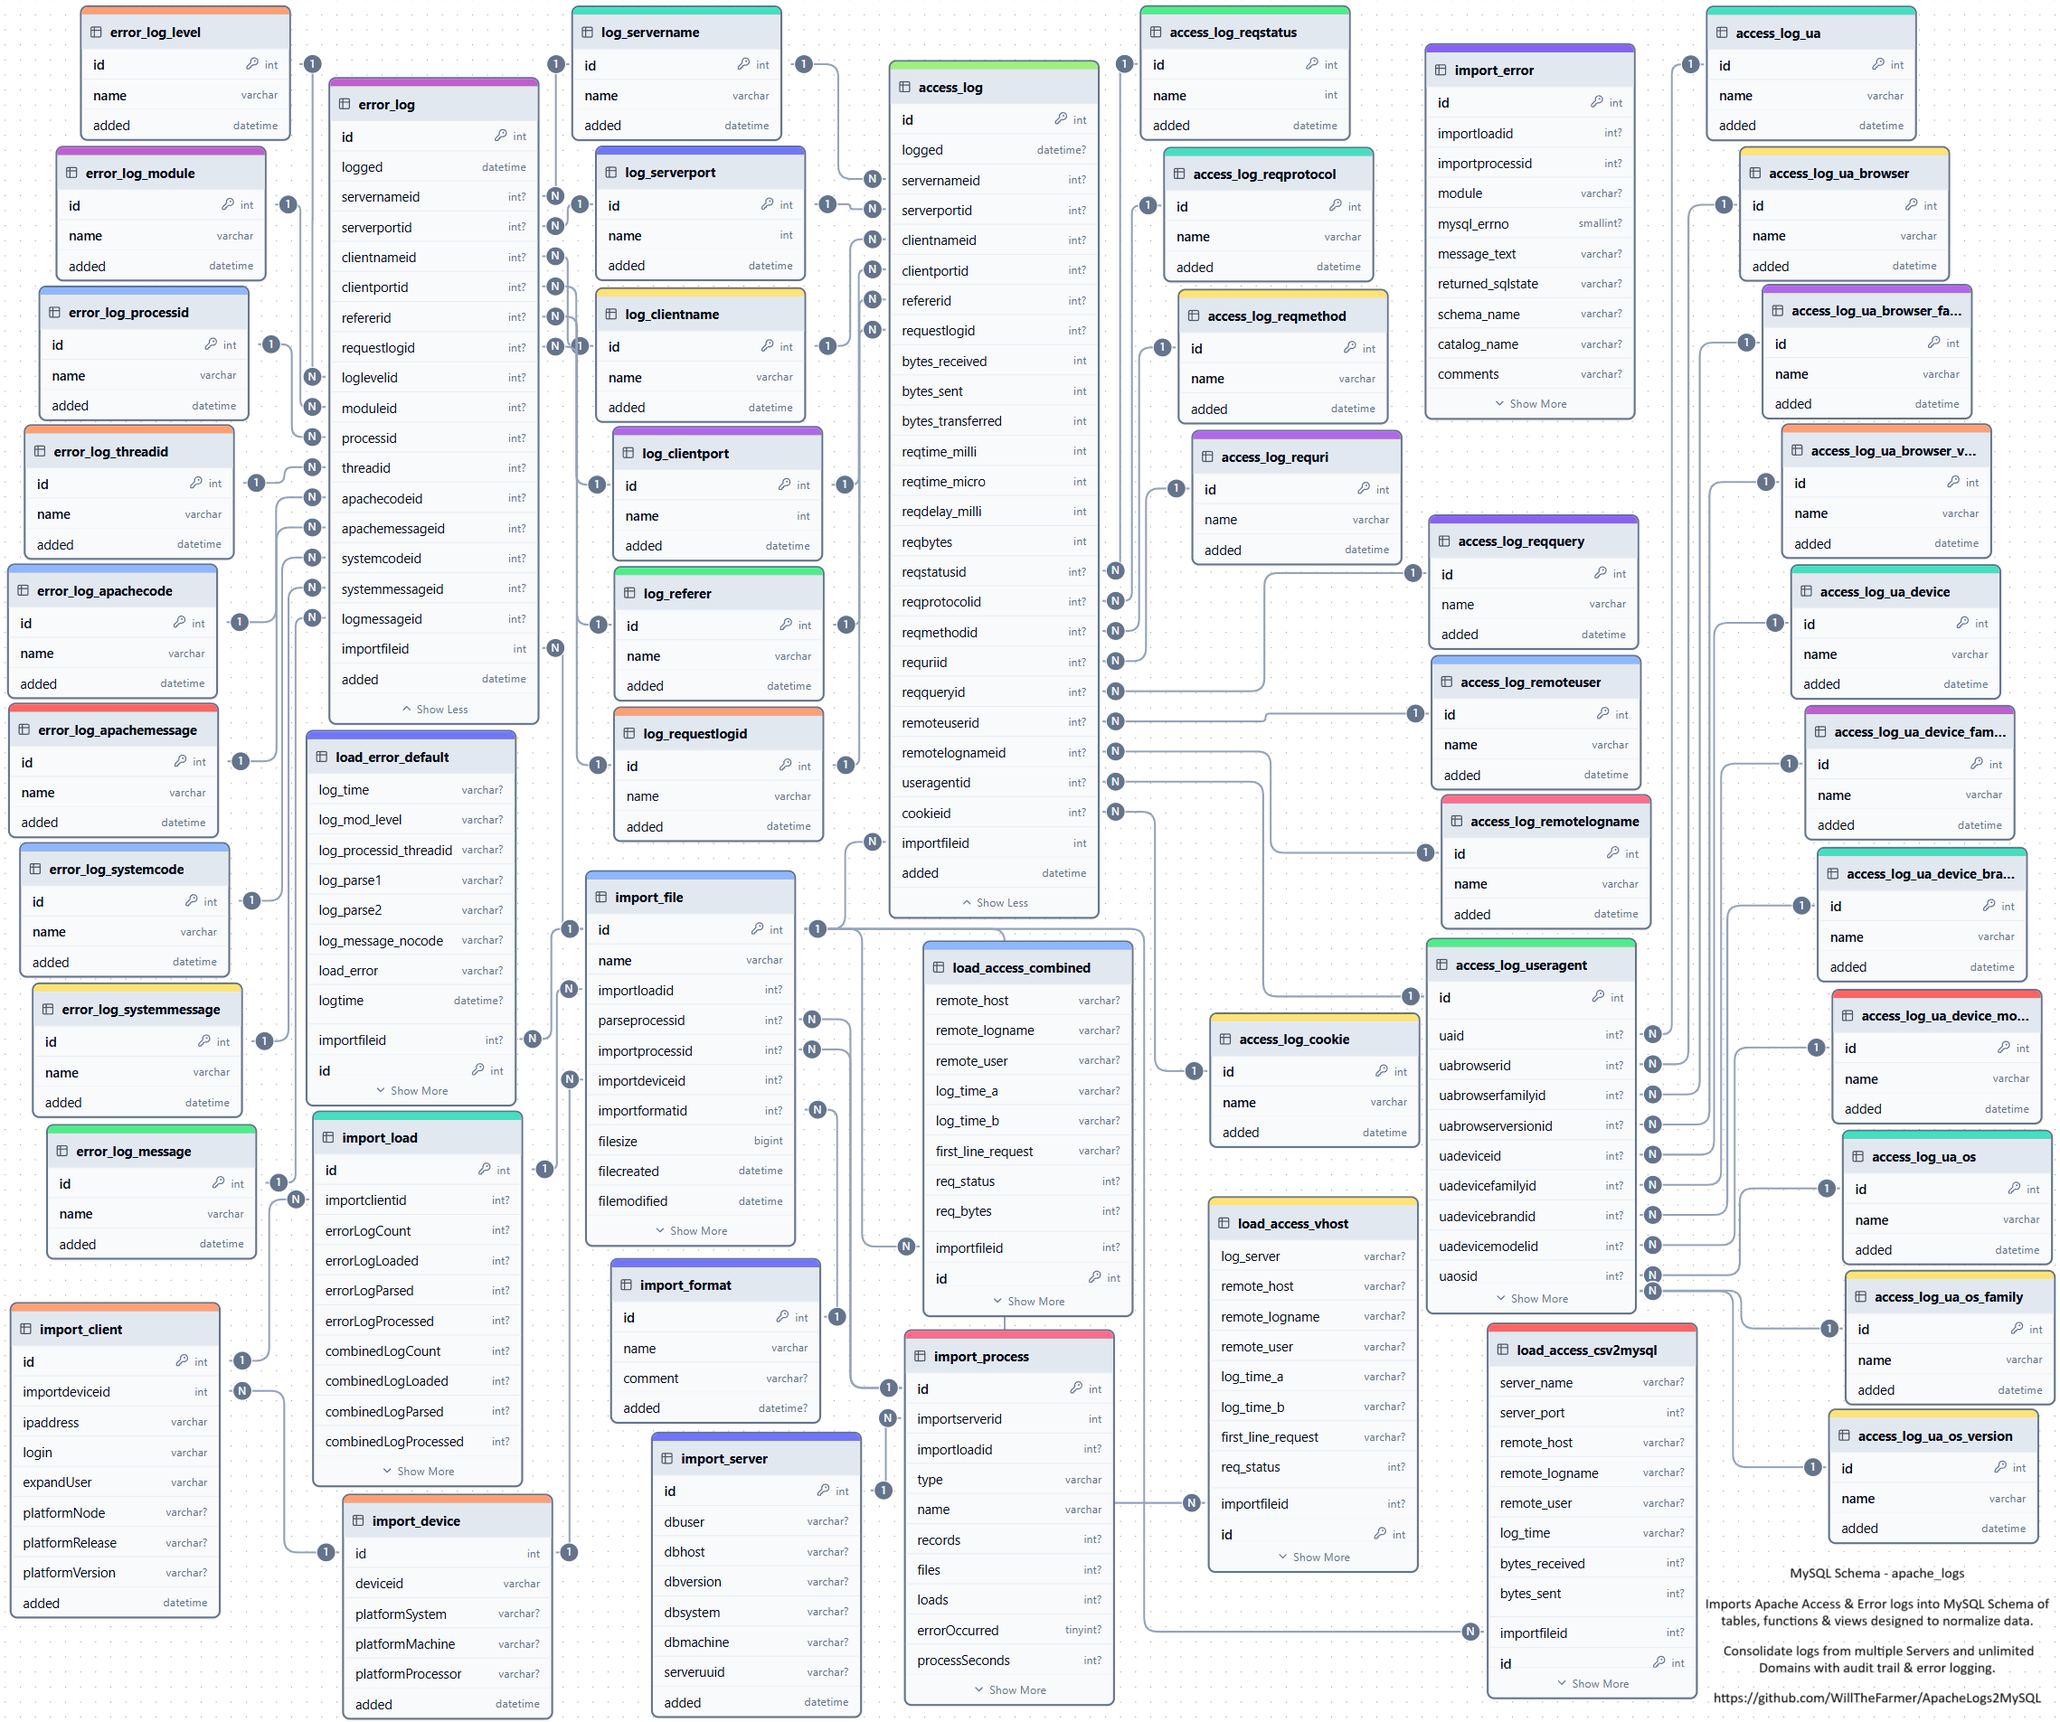
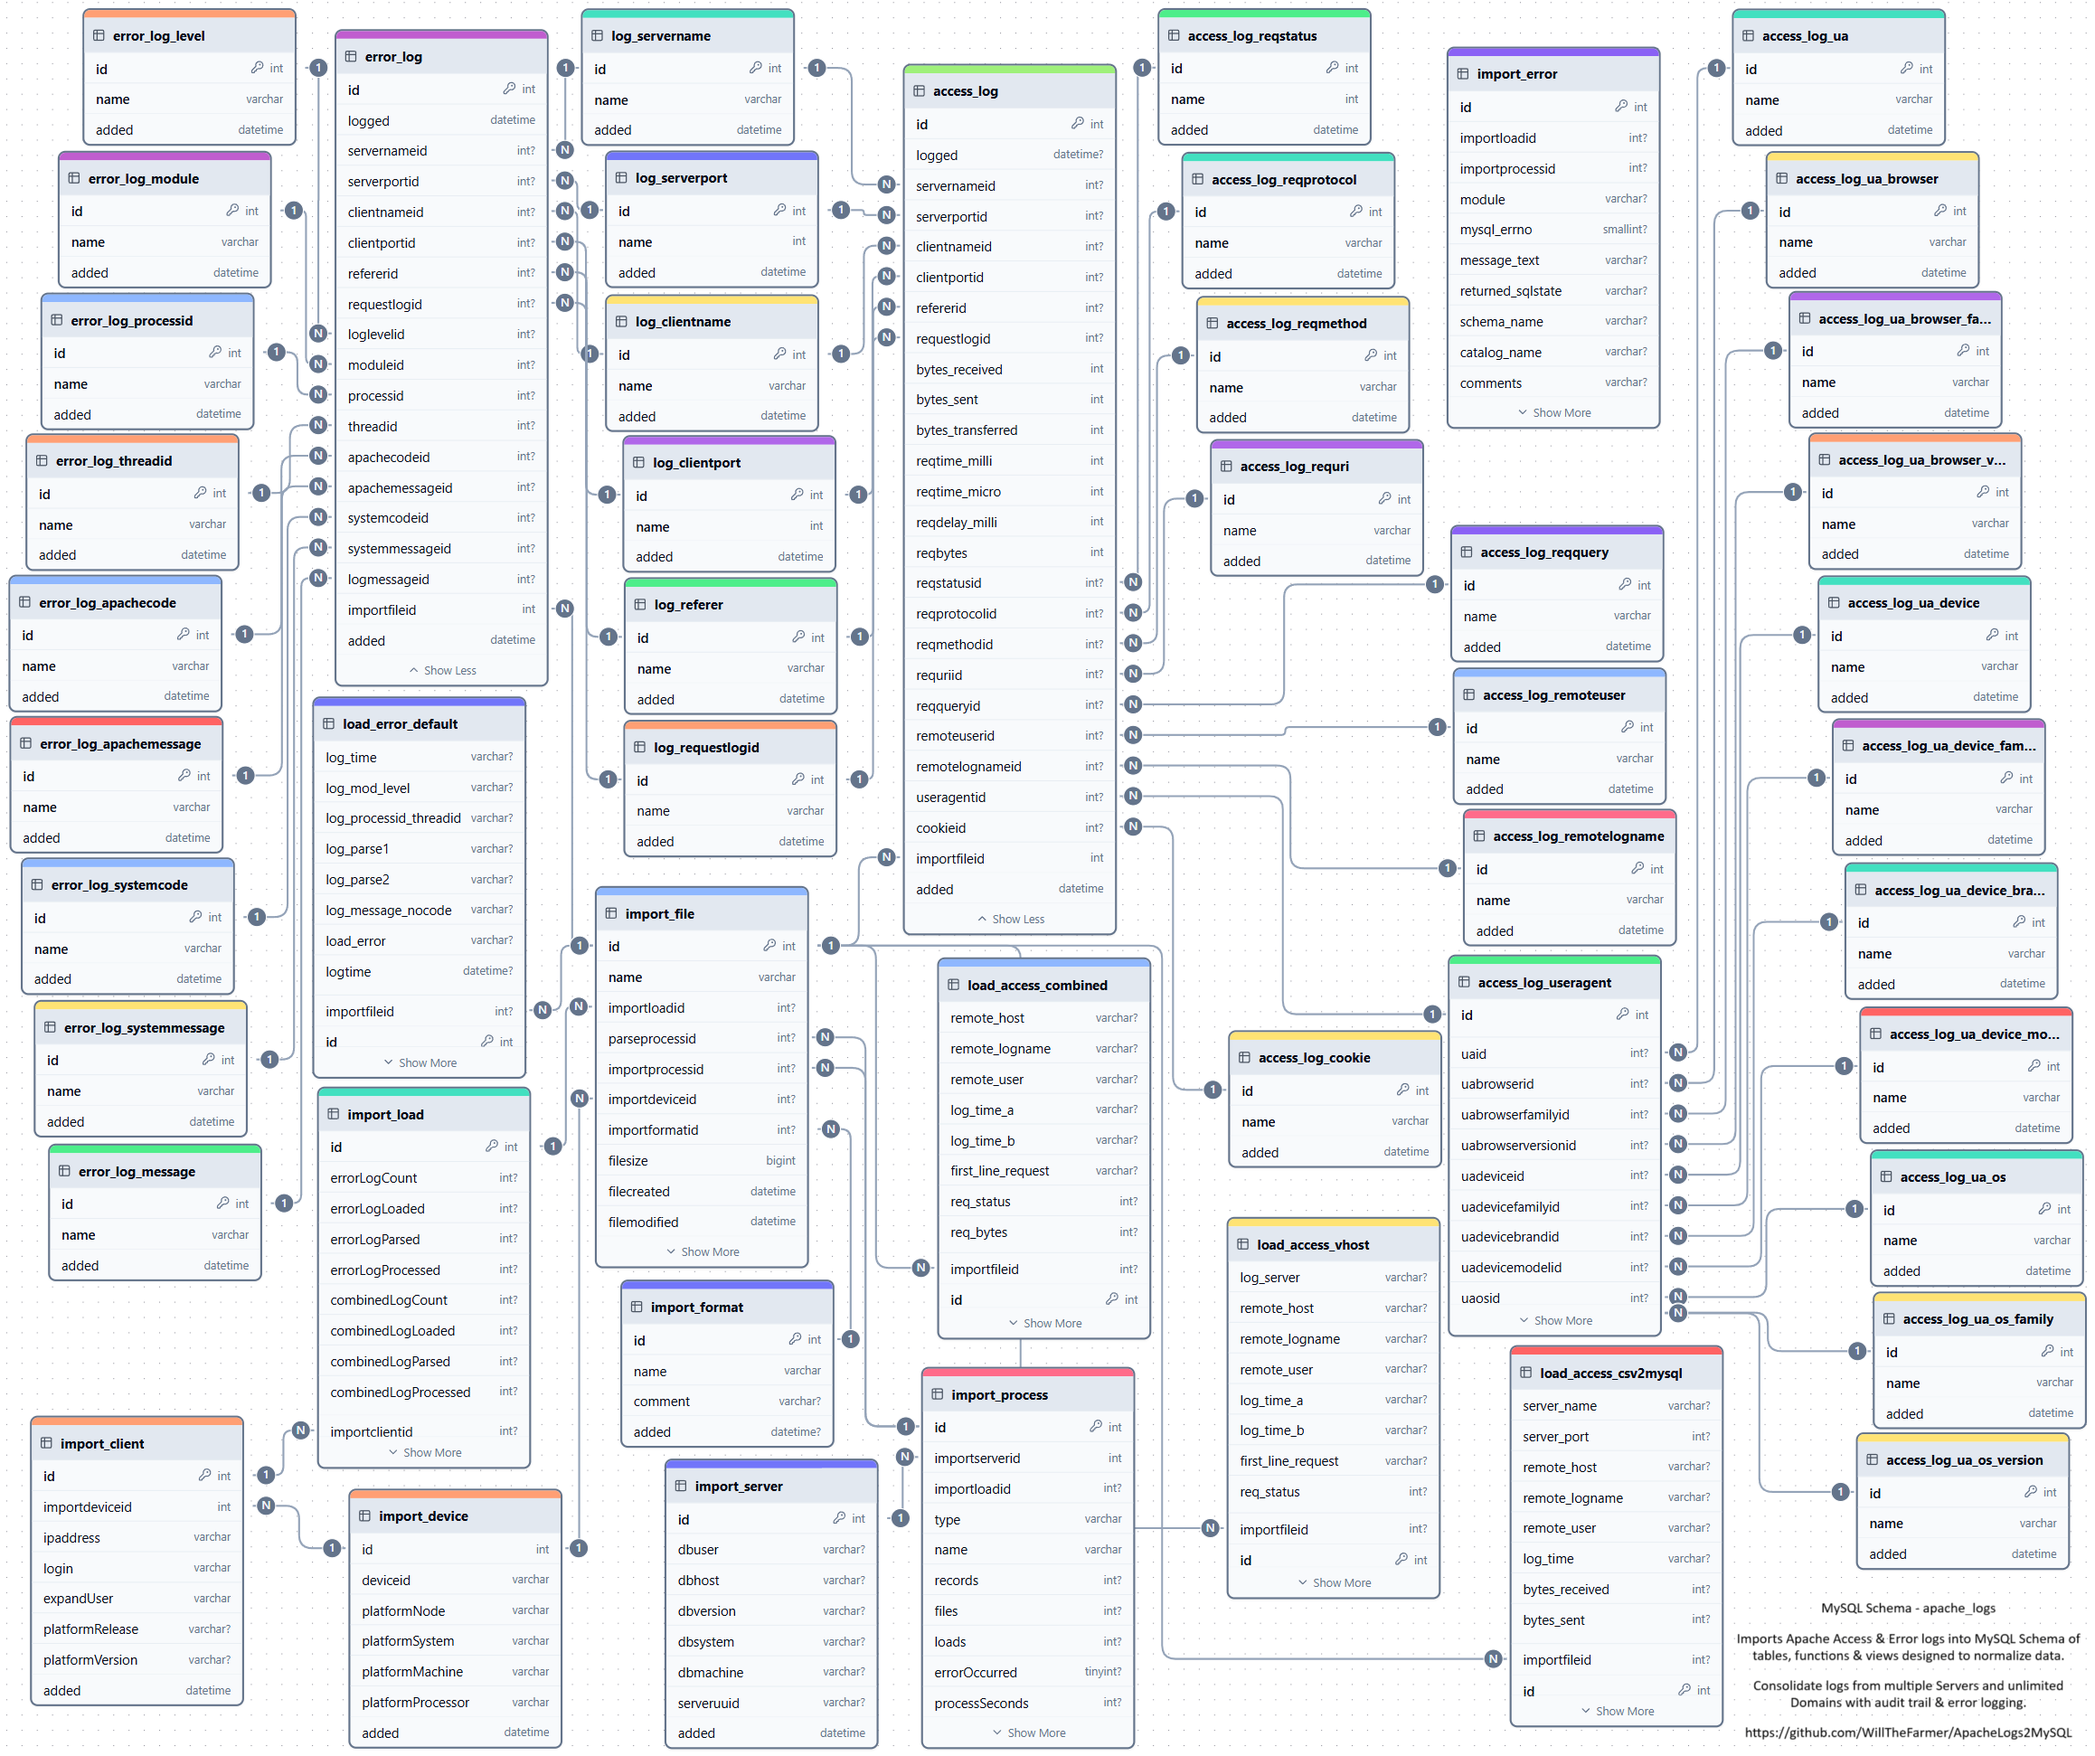
version 2.1.5 - platformNode column - import_device table

diff --git a/apacheLogs2MySQL.py b/apacheLogs2MySQL.py
@@ -10,7 +10,7 @@
 # See the License for the specific language governing permissions and
 # limitations under the License.
 #
-# version 2.1.4 - 01/02/2025 - add import_device table - see changelog
+# version 2.1.5 - 01/03/2025 - move platformNode column from import_client to import_device - see changelog
 #
 # Copyright 2024 Will Raymond <farmfreshsoftware@gmail.com>
 #
@@ -115,6 +115,7 @@ def processLogs():
     print("ProcessLogs start: " + str(datetime.datetime.now()))
     conn = pymysql.connect(**db_params)
     getImportDeviceID = ("SELECT apache_logs.importDeviceID('" + deviceid + 
+                         "', '"  + platformNode + 
                          "', '"  + platformSystem + 
                          "', '"  + platformMachine + 
                          "', '"  + platformProcessor + "');")
@@ -132,7 +133,6 @@ def processLogs():
     getImportClientID = ("SELECT apache_logs.importClientID('" + ipaddress + 
                          "', '"  + login + 
                          "', '"  + expandUser + 
-                         "', '"  + platformNode + 
                          "', '"  + platformRelease + 
                          "', '"  + platformVersion + 
                          "', '"  + str(importDeviceID) + "');")

diff --git a/watch4logs.py b/watch4logs.py
@@ -10,7 +10,7 @@
 # See the License for the specific language governing permissions and
 # limitations under the License.
 #
-# version 2.1.4 - 01/02/2025 - add import_device table - see changelog
+# version 2.1.5 - 01/03/2025 - move platformNode column from import_client to import_device - see changelog
 #
 # Copyright 2024 Will Raymond <farmfreshsoftware@gmail.com>
 #

diff --git a/.github/CHANGELOG.md b/.github/CHANGELOG.md
@@ -79,3 +79,5 @@
 - [2.1.4] add `importdeviceid` COLUMN to `import_file` TABLE to resolve Client Modules with identical FILE NAMES and PATHS. Application detected file already imported.
 - [2.1.4] modify `import_client` and `import_device` COLUMN widths and created UNIQUE INDEX for combined columns for each table.
 - [2.1.4] modify `importfileexists` and `importfileID` FUNCTIONS with new parameter for `importdeviceid`.
+- [2.1.5] move `platformNode` COLUMN from `import_client` TABLE to `import_device` TABLE. This attribute should not change once set. `import_client` are attributes which may change.
+- [2.1.5] modify `U_import_file_name` INDEX on `import_file` TABLE from UNIQUE (name) to UNIQUE (importdeviceid, name). This was missed in last release and main reason for release.

diff --git a/.github/README.md b/.github/README.md
@@ -12,7 +12,7 @@ Three options to associate ServerName & ServerPort with Access and Error logs mi
 
 4 LogFormats & 2 ErrorLogFormats can be loaded and 5 MySQL Stored Procedures can be processed in a single Python `ProcessLogs function` execution.
 
-Database system designed to accommodate unlimited domains. Easy installation steps below. 
+Database system designed to accommodate unlimited domains. Step-by-step guide for easy installation below. 
 
 Web interface with Drill Down Capability and [apache/echarts](https://github.com/apache/echarts) Log Visualization integration in development. It will be released in separate repository.
 ## Entity Relationship Diagram of apache_logs schema tables
